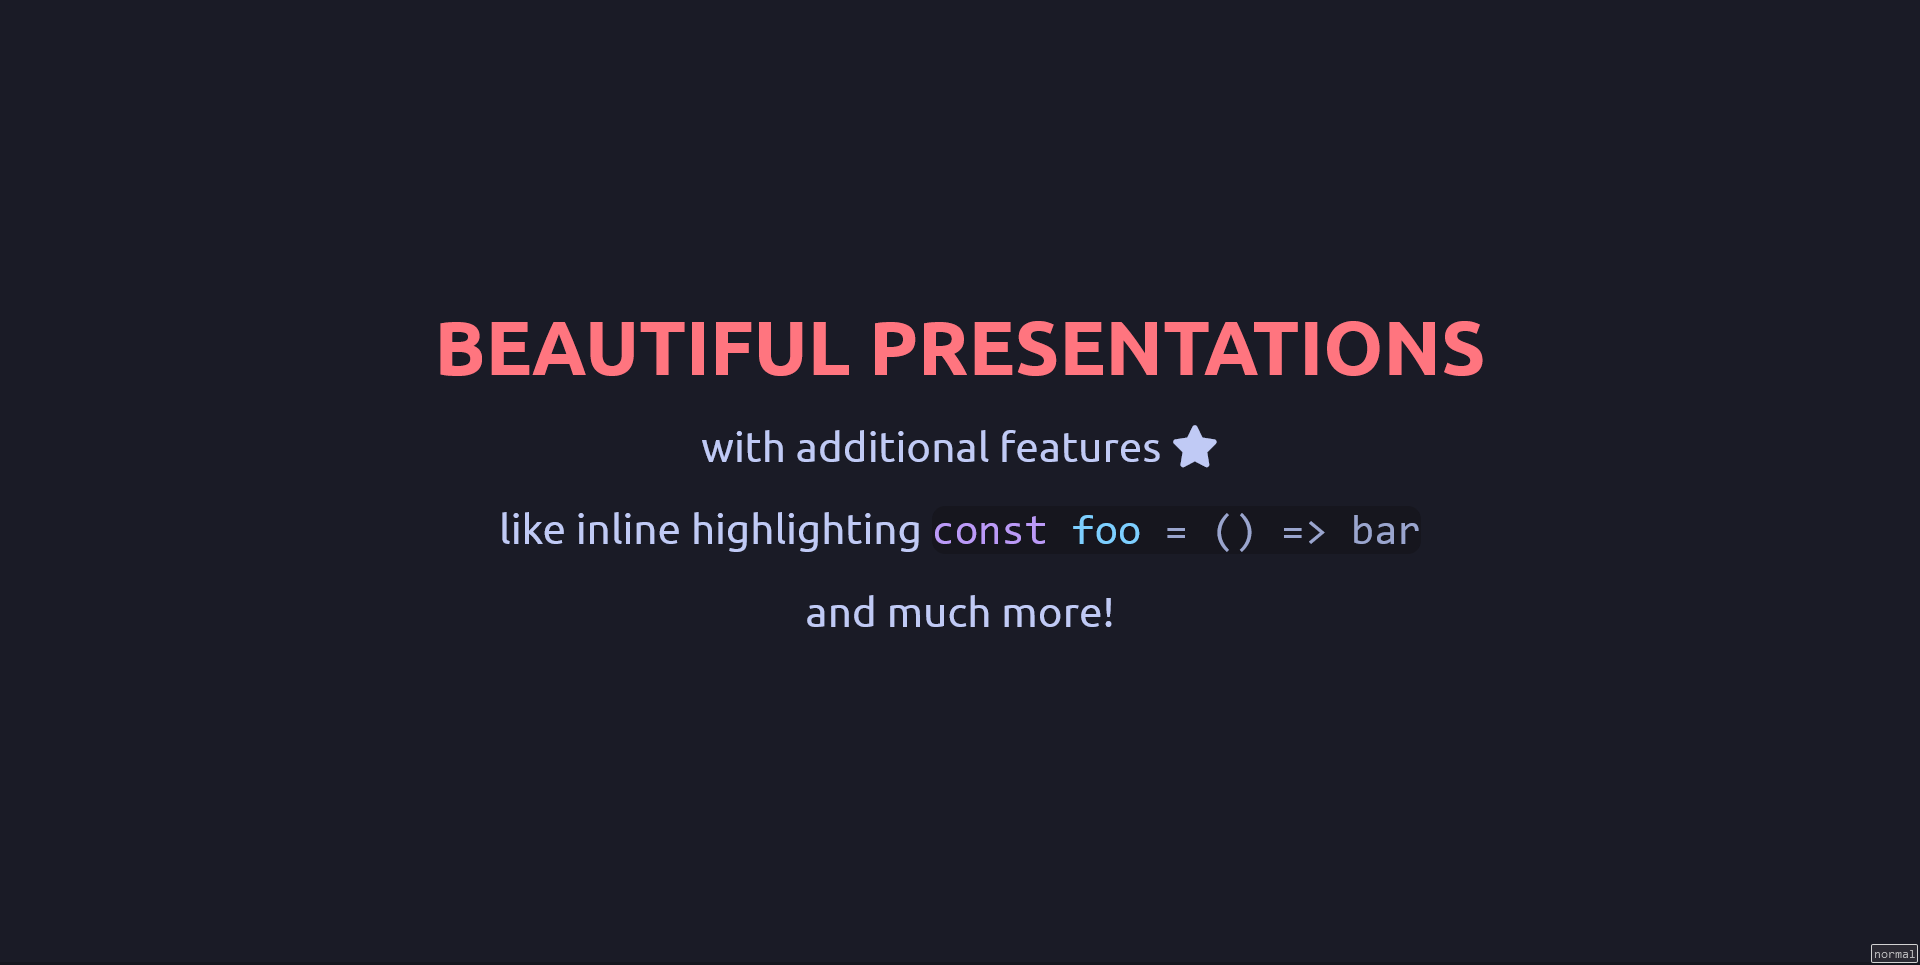
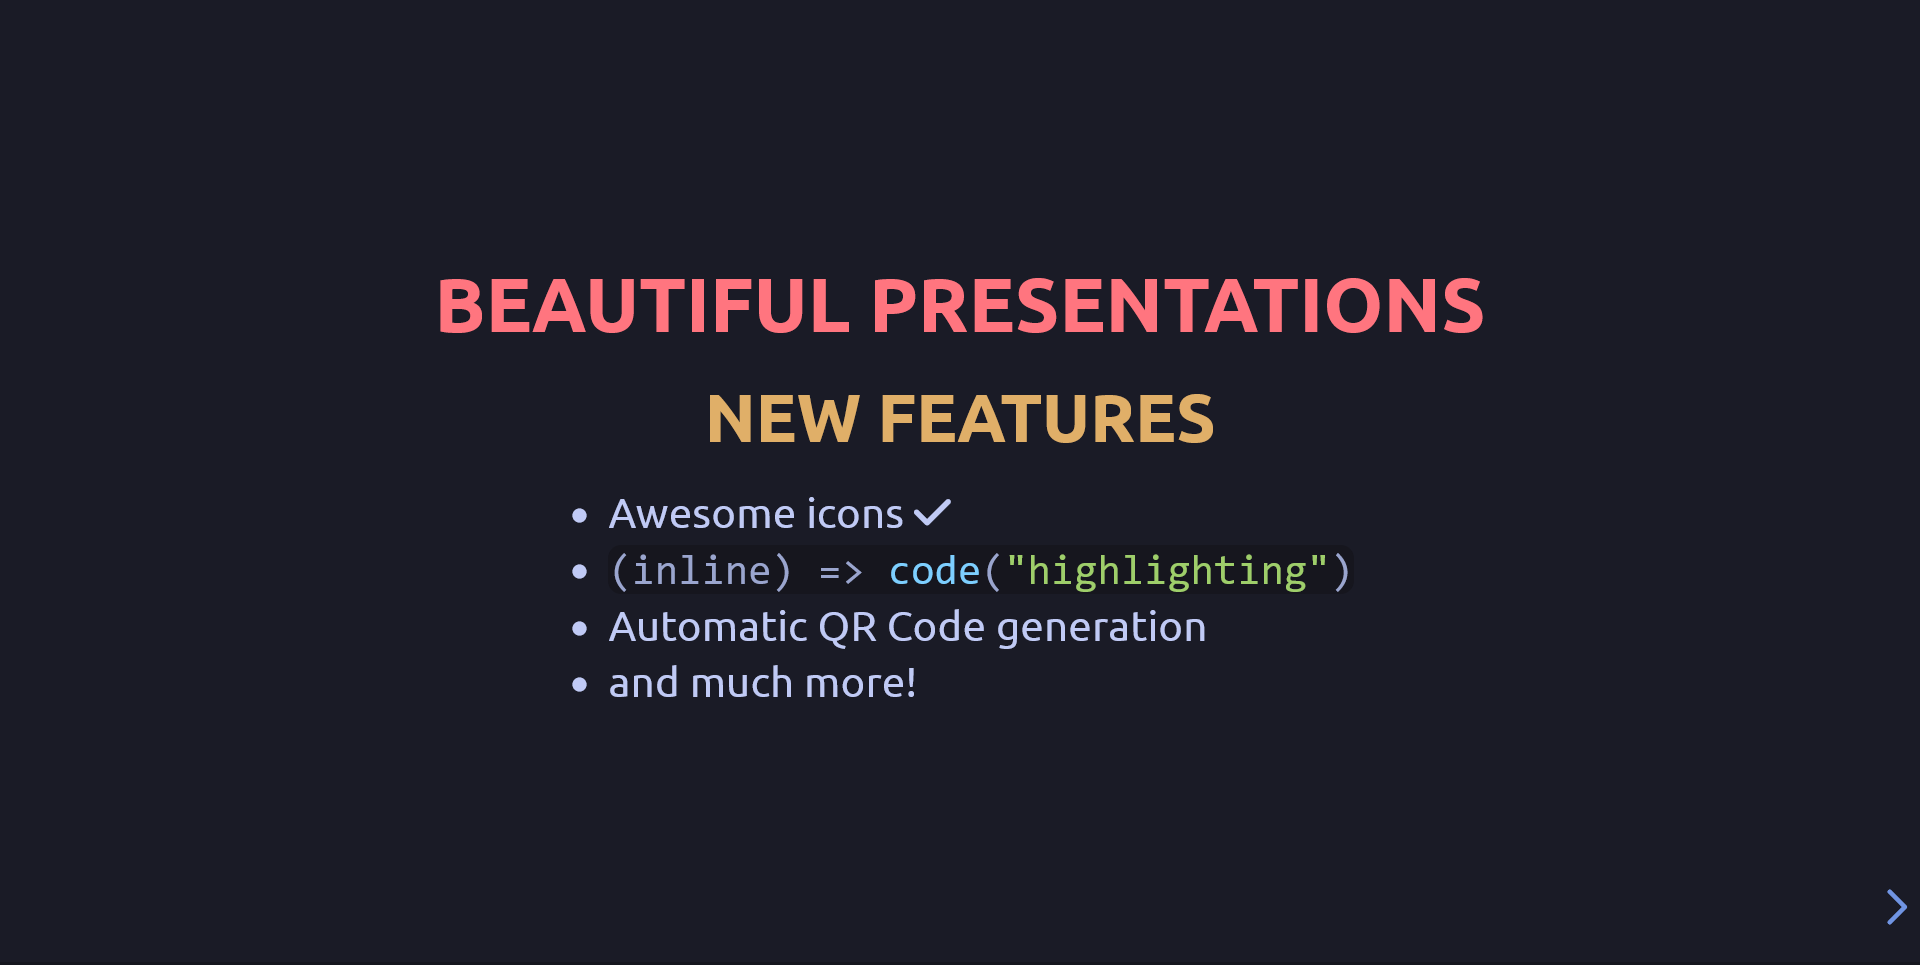
update html and readme.md

Changed region(s): [[0.2188, 0.2798, 0.7812, 0.4974], [0.25, 0.5285, 0.75, 0.7461], [0.9688, 0.9637, 1.0, 1.0]]

diff --git a/index.html b/index.html
@@ -22,8 +22,15 @@
 			<section>
 				<section>
 					<h1>
-						Showcase for RevealJS template
+						Beautiful presentations
 					</h1>
+					<h2>New features</h2>
+					<ul>
+						<li>Awesome icons <i class="fa-solid fa-check"></i></li>
+						<li><code class="js">(inline) => code("highlighting")</code></li>
+						<li>Automatic QR Code generation</li>
+						<li>and much more!</li>
+					</ul>
 				</section>
 			</section>
 			<section>

diff --git a/README.md b/README.md
@@ -15,13 +15,13 @@ RevealJS is an awesome library that lets your create beautiful HTML, CSS, JavaSc
 - [Tokyo Night colorscheme](https://github.com/folke/tokyonight.nvim?tab=readme-ov-file) (+syntax highlighting)
 - Inline code highlighting with [HighlightJS](https://github.com/highlightjs/highlight.js)
 - [Awesome Icons](https://fontawesome.com)
+- [QRCode generation](https://goqr.me/)
 
 Changes described here are presented in main branch, all experimentational features will be added in new releases
 
 ## Planned
 - Interactivity mechanics
 - PlantUML integration
-- Automatic QR-code generation
 - Realtime CSS editing through text field
 
 ## Troubleshooting
